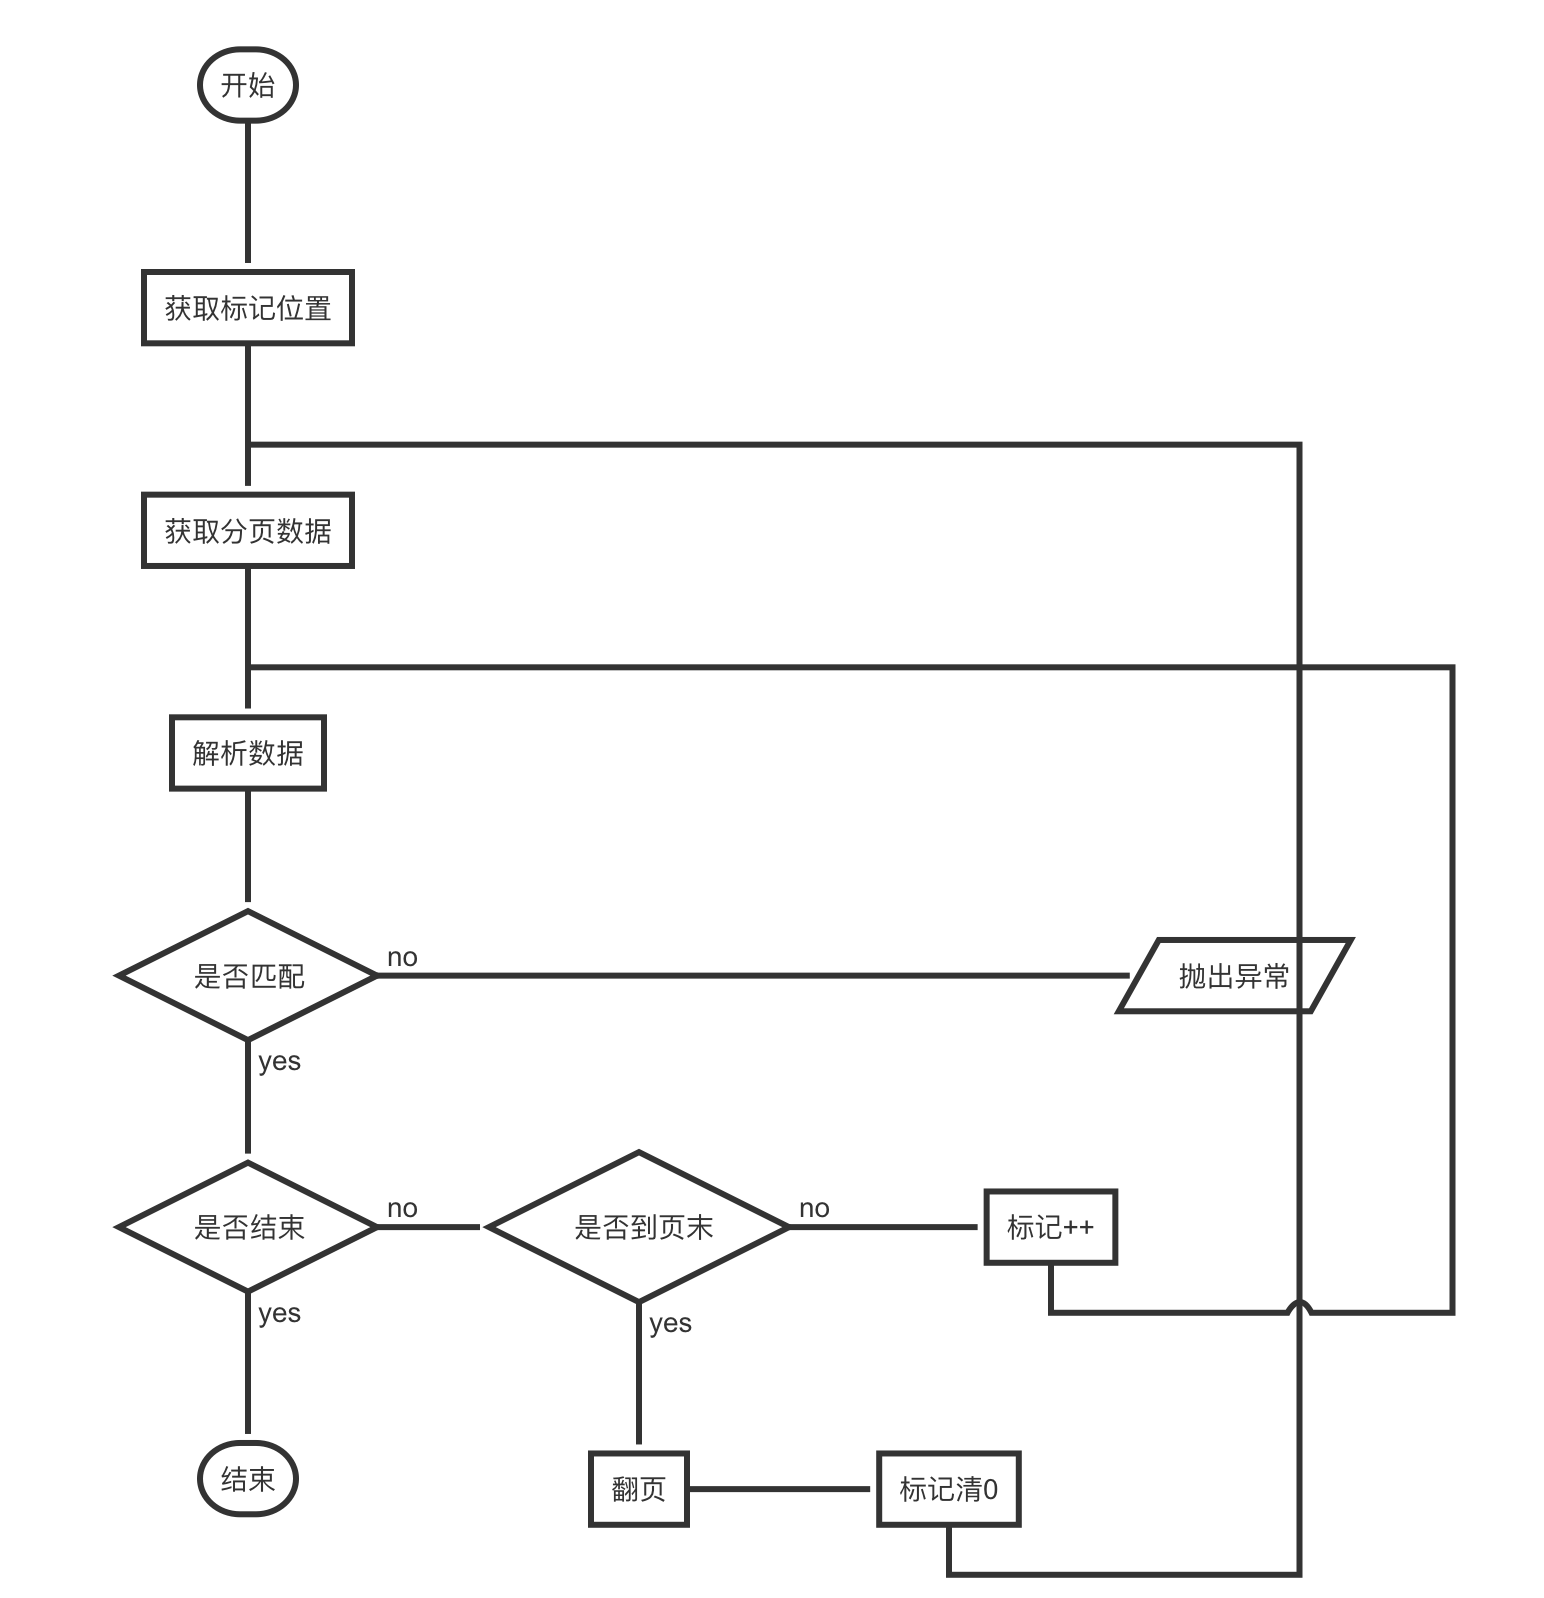
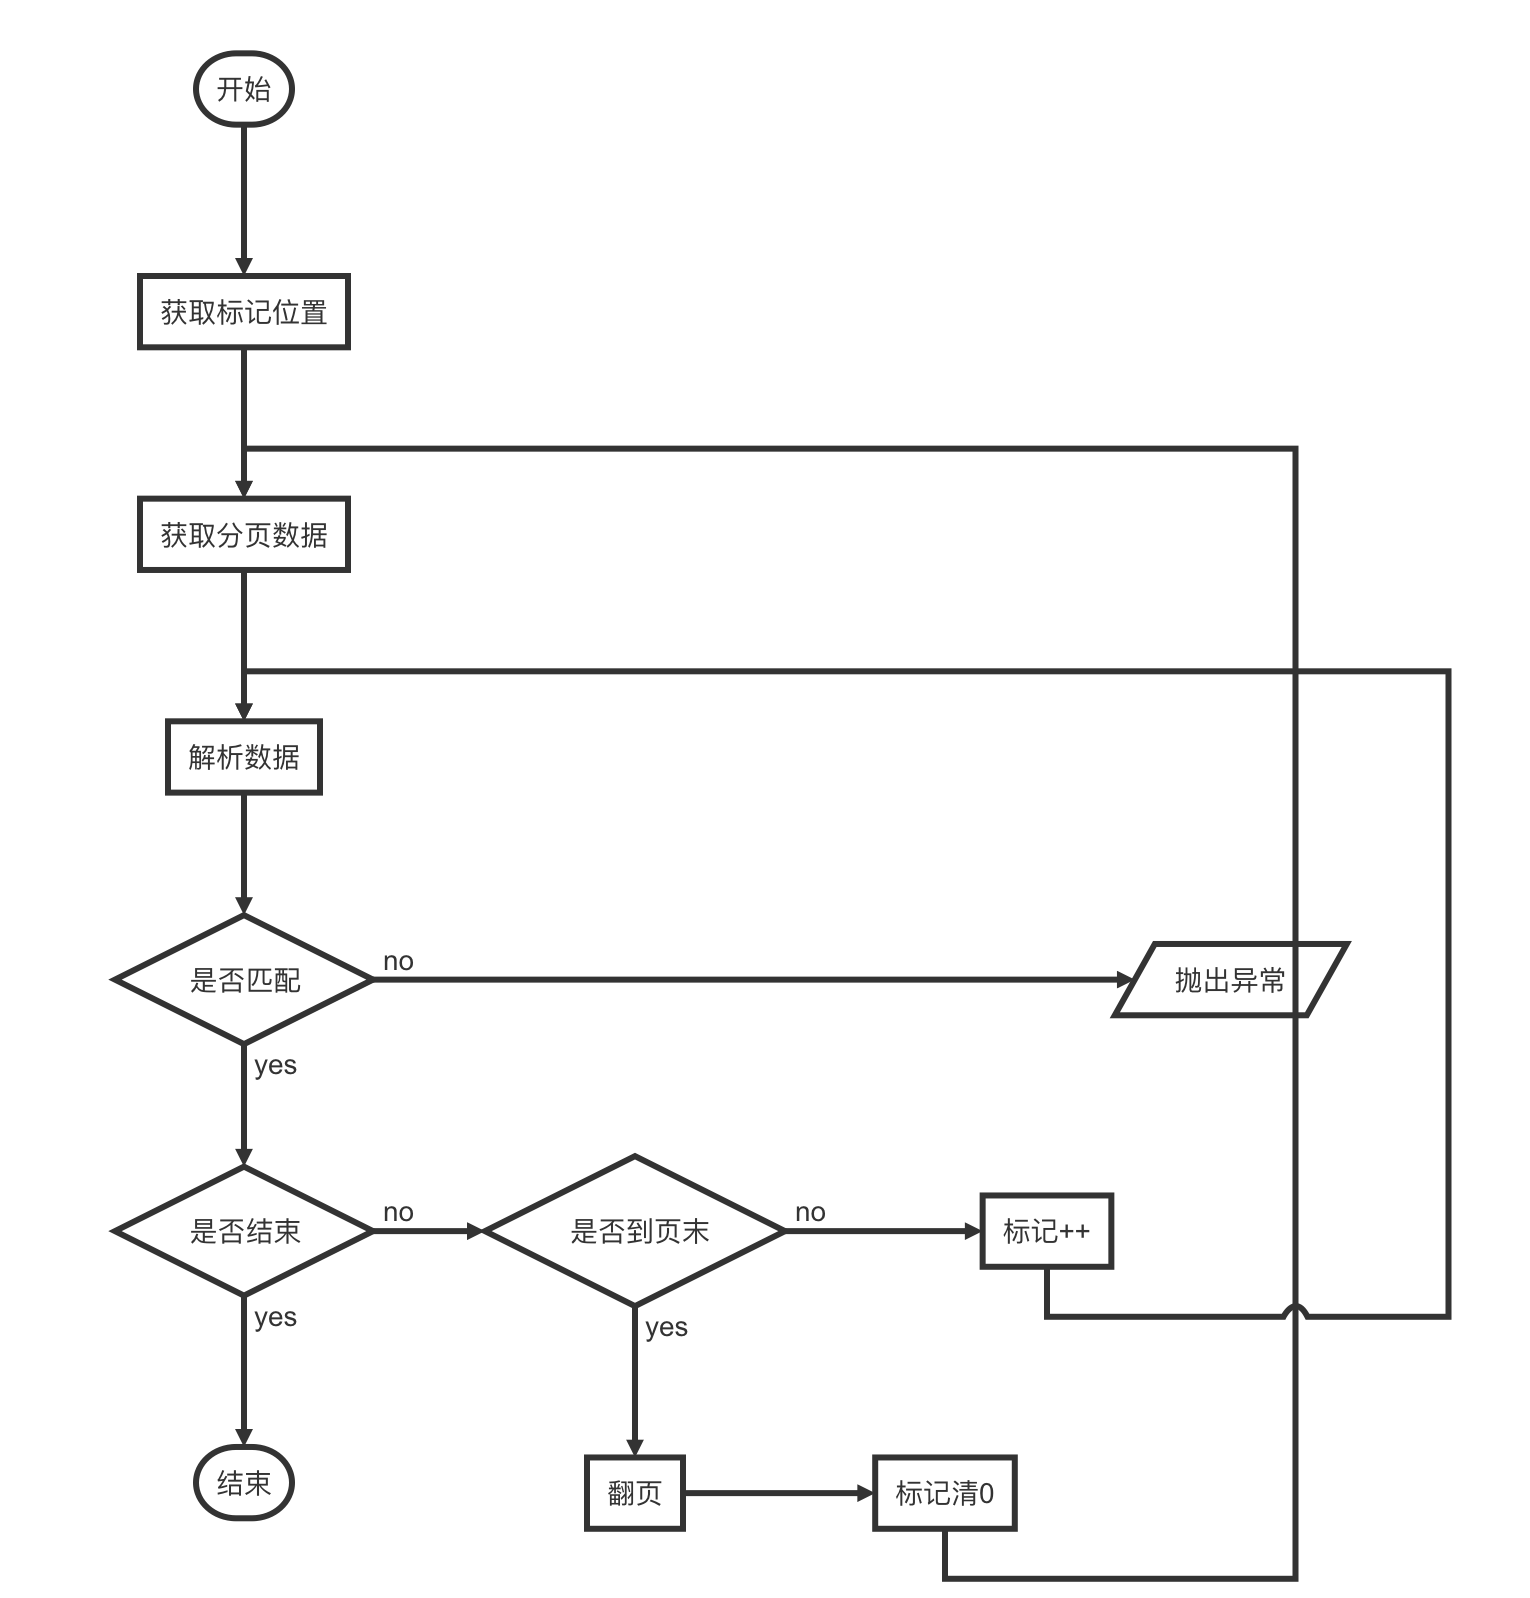
流程图没有箭头

diff --git a/README.md b/README.md
@@ -148,4 +148,4 @@ ismacth(no)->exception
 
 #### 用python会更好一些
 
-一是框架更成熟，支持也更广泛；二是语法更适合
+一是框架更成熟，支持也更广泛;二是语法更适合
